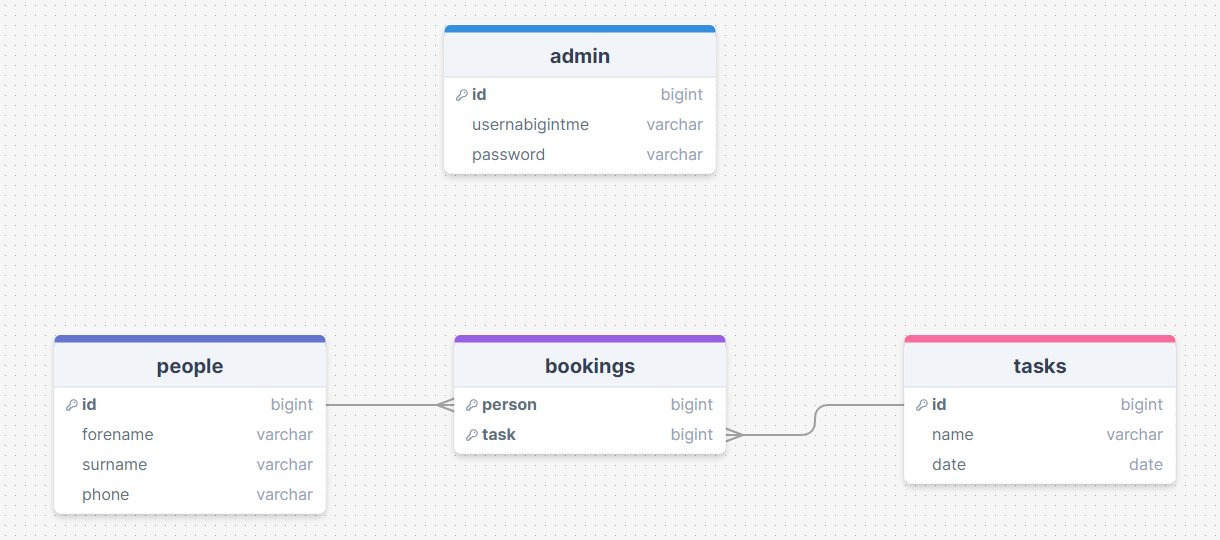
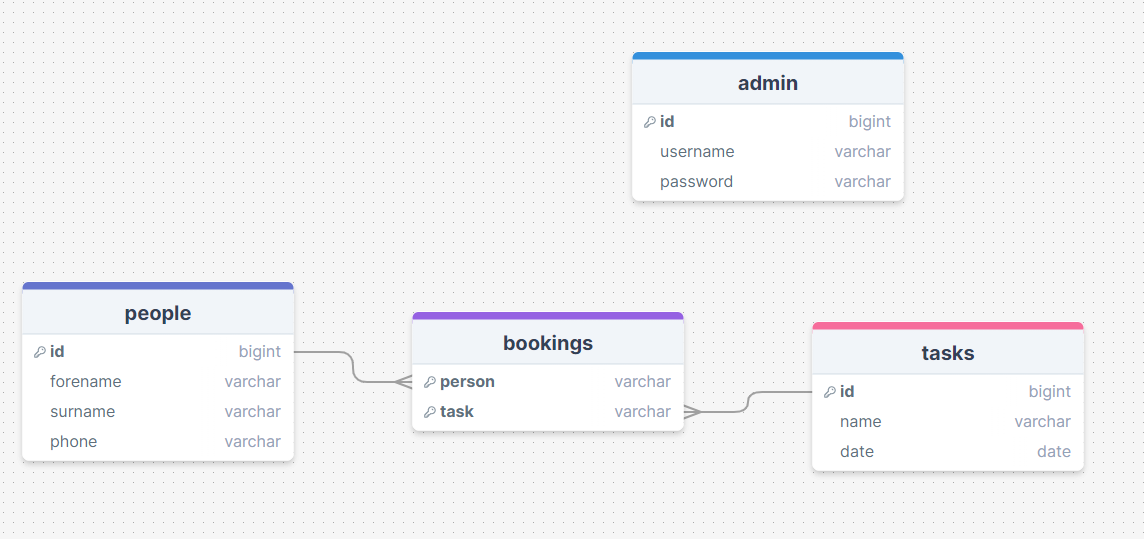
added more to the UI design

diff --git a/Development.md b/Development.md
@@ -17,7 +17,7 @@ Designing the database
 
 Today I designed the first database draft 
 
-![Database](images/database-design.png)
+![Database design](images/database-design.png)
 
 ### 20/05/2024
 
@@ -30,7 +30,7 @@ Today I made the first flowchart draft so i could see how the website would work
 
 Created first figma design
 
-Today I drafted the first figma UI design
+Today I drafted the first figma UI design so I could see how my website would look, and also get feedback from my client.
 
 ![Figma UI design](images/figma-UI-design.png)
 
@@ -39,14 +39,19 @@ Today I drafted the first figma UI design
 I got feedback from my client and they said
 >Instead of having the user input their surname and forename separately, it will be easier for them input at the same time. Add an option for the user to input their email because that is the way they will be contacted.
 
-![Alt text](image.png)
-I responded to this feedback by removing the surname option and just having full name option. I also added an email option
+![Feedback for figma UI design](images/figma-feedback.png)
+I responded to this feedback by removing the surname option and just having full name option. I also made sure the end-user can input their email as this will be the main form of contacting the end-user.
 
-![Alt text](image.png)
+![Database design v2](images/database-designv2.png)
+Since my client wanted the end-user to input their full name and email, I needed to change the database design
+
+![Figma UI design v2](images/figma-UI-designv2.png)
 Today I added an option for the admin to login
-### DATE HERE
+### 27/05/2024
 
 Replace this test with what you are working on
+
+![Alt text](image.png)
 
 Replace this text with brief notes describing what you worked on, any decisions you made, any changes to designs, etc. Add screenshots / links to other media to illustrate your notes where necessary.
 

diff --git a/README.md b/README.md
@@ -4,7 +4,7 @@
 
 This project is a system that will allow a user to select a task at Gymnastics Nelson that needs to be done for an event.
 
-![Alt text](images/Balance+Beam.png)
+![Alt text](images/balance+Beam.png)
 
 ## Features
 - Allows the user to sign up for a task.
